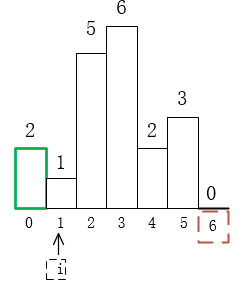
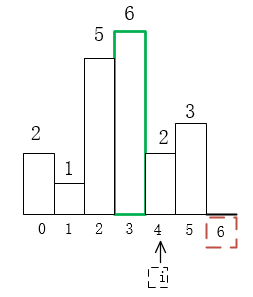
GitBook: [master] 4 pages and 18 assets modified

Changed region(s): [[0.0576, 0.0, 0.9506, 1.0], [0.5761, 0.9062, 0.6049, 0.9688], [0.1728, 0.9062, 0.2016, 0.9375]]

diff --git a/leetcode/ji-chu-shu-ju-jie-gou-zai-suan-fa-zhong-de-ying-yong/array/array-zhong-de-shu-zi-zu-cheng-san-jiao-xing.md b/leetcode/ji-chu-shu-ju-jie-gou-zai-suan-fa-zhong-de-ying-yong/array/array-zhong-de-shu-zi-zu-cheng-san-jiao-xing.md
@@ -240,27 +240,27 @@ Output: 10
 
 1. 刚开始的时候栈为空，压入第一个元素2对应的index = 0；然后第二个元素的下标为1，它的高度值是1，比前一个值小，所以这时候index = 1不入栈，并且index = 0出栈，栈变为空，计算此时面积area = 2；
 
-![](../../../.gitbook/assets/image%20%282%29.png)
+![](../../../.gitbook/assets/image%20%284%29.png)
 
     2. 高度1，5，6依次递增，所以依次压入栈中，然后当index = 4的时候，高度值为2，小于之前index = 3时候的高度值6，所以此时index = 4不入栈，但此时把index = 4对应的高度值2记下来；index = 3出栈，计算此时面积area = 6；
 
-![](../../../.gitbook/assets/image%20%2810%29.png)
+![](../../../.gitbook/assets/image%20%2813%29.png)
 
     3. 此时栈顶元素为index = 2，index = 2对应的值5 &gt; index = 4对应的值2；所以index = 2出栈，计算此时的面积area = 2 x 5 = 10；
 
-![](../../../.gitbook/assets/image%20%2814%29.png)
+![](../../../.gitbook/assets/image%20%2817%29.png)
 
     4. 此时栈顶元素为index = 1，它对应的高度1 &lt; index = 4对应的高度2，所以可以压入index = 4，同样之后index = 5也是上升可以压入，到最后结束的时候index = 6的时候人工压入一个0，此时栈的有效下标元素为{1,4,5}；栈顶元素为index = 6对应高度为0，此时只要高度比0大都需要出栈，所以index = 5先出栈，计算此时的面积area = 3，上面area最大值为10，所以不取；
 
-![](../../../.gitbook/assets/image%20%285%29.png)
+![](../../../.gitbook/assets/image%20%288%29.png)
 
     5. 此时栈顶元素index = 4，高度值2 &gt; index = 6对应的高度值0，继续出栈，计算面积area = 2 x 2 = 4，不取；
 
-![](../../../.gitbook/assets/image%20%287%29.png)
+![](../../../.gitbook/assets/image%20%2810%29.png)
 
     6. 此时栈顶元素为index = 1，对应的值1 &gt; index = 6对应的高度值0，继续出栈，此时index = 1出栈后栈变为空，并且当前元素已经到末尾了，index = 6，所以index = 1对应的高度值是最小的，这时候把所有的栈的数目与index = 1的高度相乘，得到area = 6；
 
-![](../../../.gitbook/assets/image%20%283%29.png)
+![](../../../.gitbook/assets/image%20%286%29.png)
 
 
 
@@ -270,7 +270,7 @@ Time：O\(n\)；Space：新建一个Stack，O\(n\)；
 
 为什么这个方法是正确的呢？[参考这里](http://www.cnblogs.com/lichen782/p/leetcode_Largest_Rectangle_in_Histogram.html)。
 
-![](../../../.gitbook/assets/image%20%284%29.png)
+![](../../../.gitbook/assets/image%20%287%29.png)
 
 > 例如我们遇到最后遇到一个递减的bar（红色）。高度位于红线上方的（也就是算法中栈里面大于最右bar的）元素，他们是不可能和最右边的较小高度bar围成一个比大于在弹栈过程中的矩形面积了（黄色面积），因为红色的bar对他们来说是一个短板，和红色bar能围成的最大面积也就是红色的高度乘以这些“上流社会”所跨越的索引范围。但是“上流社会”的高度个个都比红色bar大，他们完全只计算彼此之间围成的面积就远远大于和红色bar围成的任意面积了。所以红色bar是不可能参与“上流社会”的bar的围城的（好悲哀）。
 >
@@ -290,7 +290,7 @@ Time：O\(n\)；Space：新建一个Stack，O\(n\)；
 >
 > >
 
-![](../../../.gitbook/assets/image%20%281%29.png)
+![](../../../.gitbook/assets/image%20%283%29.png)
 
 ### 代码
 

diff --git a/ji-chu-zhi-shi.md b/ji-chu-zhi-shi.md
@@ -4,6 +4,21 @@ description: 面试中应该知道的基础知识
 
 # 基础知识
 
+## 操作系统
+
+### 进程Process与线程Thread
+
+![&#x6CE8;&#x610F;&#x5185;&#x5B58;&#x662F;&#x903B;&#x8F91;&#x5185;&#x5B58;&#xFF1B; &#x5728;&#x4E00;&#x4E2A;&#x8FDB;&#x7A0B;&#x4E2D;&#xFF0C;&#x6240;&#x6709;&#x7EBF;&#x7A0B;&#x662F;&#x5171;&#x4EAB;&#x540C;&#x4E00;&#x4E2A;&#x5730;&#x5740;&#x7A7A;&#x95F4;&#x7684;&#x3002;](.gitbook/assets/image.png)
+
+
+
+![PC - Programming Counter&#xFF0C;&#x7A0B;&#x5E8F;&#x8BA1;&#x6570;&#x5668;&#xFF0C;&#x7528;&#x4E8E;&#x6307;&#x793A;&#x7A0B;&#x5E8F;&#x5E8F;&#x5217;&#x4F4D;&#x7F6E;&#x7684;&#x5BC4;&#x5B58;&#x5668;&#xFF1B;TLS - Thread Local Storage&#x7EBF;&#x7A0B;&#x672C;&#x5730;&#x5B58;&#x50A8;&#xFF0C;&#x4E3A;&#x8FDB;&#x7A0B;&#x4E2D;&#x7684;&#x591A;&#x4E2A;&#x7EBF;&#x7A0B;&#x5B58;&#x50A8;&#x5168;&#x5C40;&#x6216;&#x9759;&#x6001;&#x53D8;&#x91CF;&#x7684;&#x5185;&#x5B58;&#x3002;](.gitbook/assets/image%20%281%29.png)
+
+  
+
+
+
+
 只刷题不上课肯定是不行的，根据大神[李小白](https://zhuanlan.zhihu.com/p/24774857)的推荐，更新了一下链接，选择打牢基础的五门课程
 
 ## Udacity: Introduction to Computer Science（计算机科学导论）

diff --git a/leetcode/ji-chu-shu-ju-jie-gou-zai-suan-fa-zhong-de-ying-yong/linkedlist/pan-duan-dan-lian-biao-shi-fou-you-huan.md b/leetcode/ji-chu-shu-ju-jie-gou-zai-suan-fa-zhong-de-ying-yong/linkedlist/pan-duan-dan-lian-biao-shi-fou-you-huan.md
@@ -59,11 +59,11 @@ Can you solve it without using extra space?
 
 这道题是上一道的延伸，如果有环，判断环的入口，如果没有环就返回null，不要改变原先的链表。下面三种情况，链表无环，链表头尾相接，链表一部分有环。
 
-![](../../../.gitbook/assets/image%20%2813%29.png)
+![](../../../.gitbook/assets/image%20%2816%29.png)
 
-![](../../../.gitbook/assets/image.png)
+![](../../../.gitbook/assets/image%20%282%29.png)
 
-![](../../../.gitbook/assets/image%20%2811%29.png)
+![](../../../.gitbook/assets/image%20%2814%29.png)
 
 这道题也是先用快慢指针判断该链表是否有环，如果没有环，直接返回null，如果有环\(这时候slow和fast是在一个node上\)，将fast重新指向head（将slow重新指向head也可以），然后继续走，不过这时候fast每次只走一步，若干步和slow和fast相遇的node就是环的入口；
 

diff --git a/leetcode/ji-chu-shu-ju-jie-gou-zai-suan-fa-zhong-de-ying-yong/array/zhong-shu.md b/leetcode/ji-chu-shu-ju-jie-gou-zai-suan-fa-zhong-de-ying-yong/array/zhong-shu.md
@@ -26,7 +26,7 @@ Output: 2
 
 给一个非空无序的数组，找到其中的众数，众数是多余元素总个数n/2的数，这个众数一定存在。首先看一下这道题有如下解法：
 
-![](../../../.gitbook/assets/image%20%289%29.png)
+![](../../../.gitbook/assets/image%20%2812%29.png)
 
 这里我们选第6个办法 Moore's voting，大浪淘沙法，维持一个count ，初始化一个数，遍历数组，如果遇到这个数自己，就+1，如果不是自己就-1，当count = 0时，换遍历到的那个数再换一个，最后count ！= 0的数肯定是众数。
 
